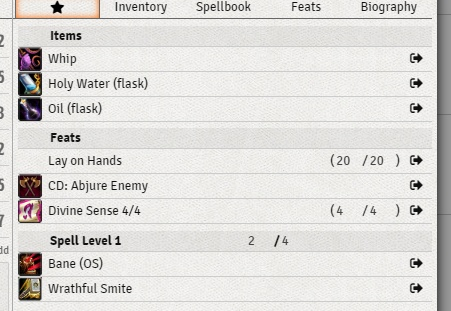
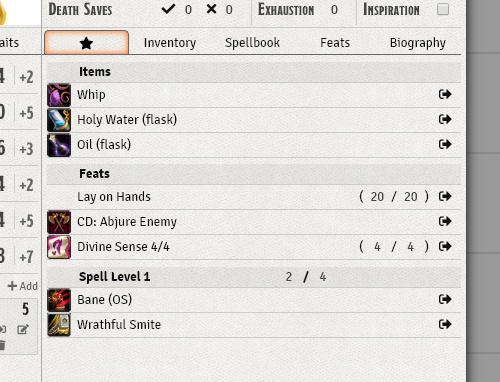
Add files via upload

Changed region(s): [[0.0, 0.0, 1.0, 1.0]]

diff --git a/favtab/favtab.js b/favtab/favtab.js
@@ -85,7 +85,7 @@ Hooks.on(`renderActorSheet5eCharacter`, (app, html, data) => {
             } else {
                 let spellslot = data.actor.data.spells['spell' + spellLvl].value;
                 let spellMax = data.actor.data.spells['spell' + spellLvl].max;
-                let inputStyle = 'style="height:1em; width:2em; margin:0 1px; padding:0;"';
+                let inputStyle = 'style="height:1em; width:2em; margin:0 1px; padding:0; text-align:center;"';
                 itemHeader = `<li class="item inventory-header">`;
                 itemHeader += `<h3>Spell Level ${spellLvl}</h3>`;
                 itemHeader += `<span class="spell-slots" style="display:inline; margin-left:10px;">`;
@@ -138,7 +138,7 @@ function createItemElement(item, app, html, data) {
     itemLi += `</div>`;
     itemLi += `<div class="charges" style="flex:0 0 80px">`;
     if (item.data.charges !== undefined && item.data.charges.max !== 0) {
-        let inputStyle = 'style="height:1em; width:2em; margin:0 1px; padding:0;"';
+        let inputStyle = 'style="height:1em; width:2em; margin:0 1px; padding:0; text-align:center;"';
         itemLi += `<span style="display:inline;">(</span>`;
         itemLi += `<input data-type="value" type="text" ${inputStyle} value="${item.data.charges.value}" ${app.options.editable ? "" : "disabled"}>`;
         itemLi += `<span style="display:inline;">/</span>`;
